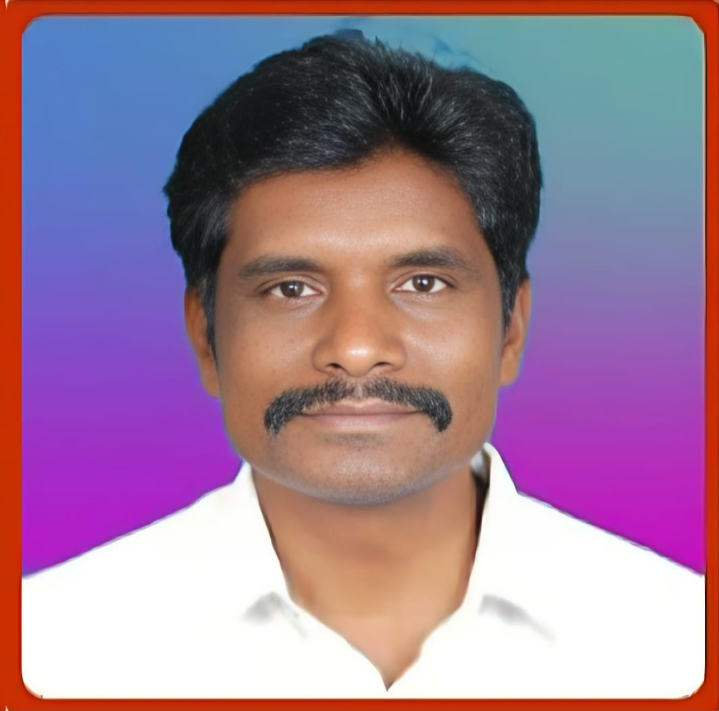
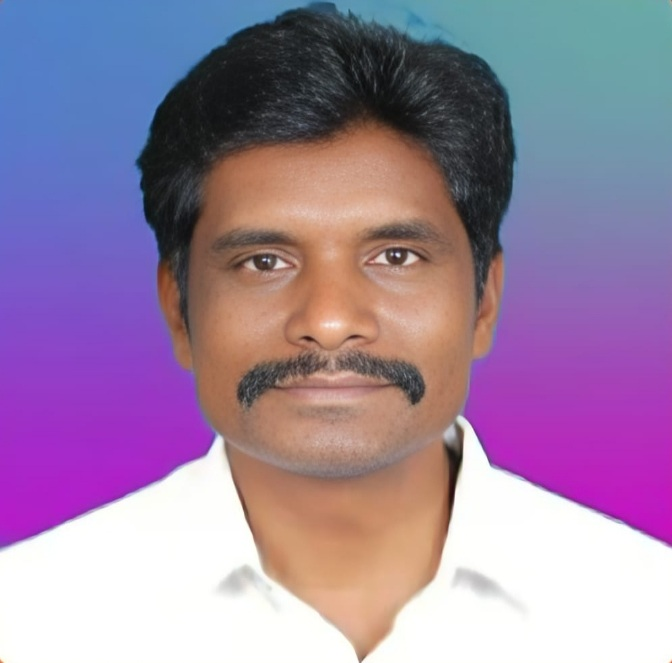
updates

diff --git a/src/components/Hero.tsx b/src/components/Hero.tsx
@@ -1,3 +1,4 @@
+
 import Image from "next/image";
 
 import {
@@ -72,16 +73,18 @@ function OrganizerCard({
       {person.image && (
         <div className="flex shrink-0 items-center justify-center p-3 sm:p-0">
           <Image
-  src={person.image}
-  alt={`${person.name} - AVMS organizer`}
-  width={208}
-  height={240}
-  quality={75}
-  sizes="(max-width: 639px) 176px, (max-width: 1023px) 192px, 208px"
-  priority={isFirstOrganizer}
-  loading={isFirstOrganizer ? "eager" : "lazy"}
-  className="h-48 w-44 rounded-xl border-2 border-[#eadcb8] object-cover shadow-md sm:h-56 sm:w-48 lg:h-60 lg:w-52"
-/>
+            src={person.image}
+            alt={`${person.name} - AVMS organizer`}
+            width={208}
+            height={240}
+            quality={75}
+            sizes="(max-width: 639px) 176px, (max-width: 1023px) 192px, 208px"
+            preload={isFirstOrganizer}
+            fetchPriority={isFirstOrganizer ? "high" : "auto"}
+            loading={isFirstOrganizer ? undefined : "lazy"}
+            decoding="async"
+            className="h-48 w-44 rounded-xl border-2 border-[#eadcb8] object-cover shadow-md sm:h-56 sm:w-48 lg:h-60 lg:w-52"
+          />
         </div>
       )}
 
@@ -168,8 +171,6 @@ export default function Hero() {
           </div>
         </div>
       </div>
-
-    
 
       {/* Hero Heading */}
       <section className="relative bg-gradient-to-b from-[#fffaf0] via-white to-white px-3 pb-5 pt-5 sm:px-5 sm:pb-7 sm:pt-6">
